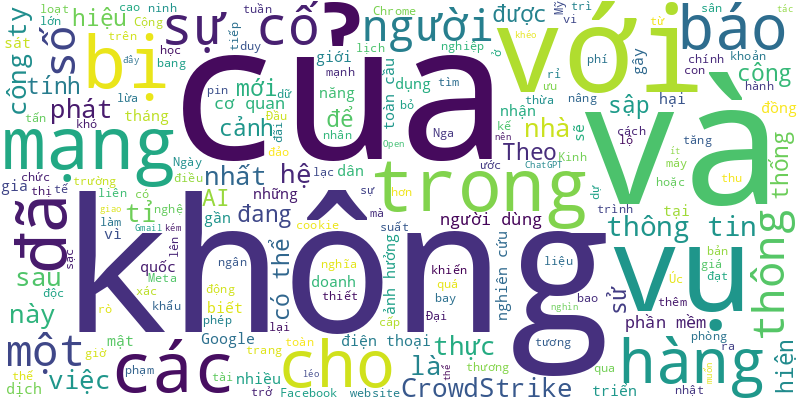
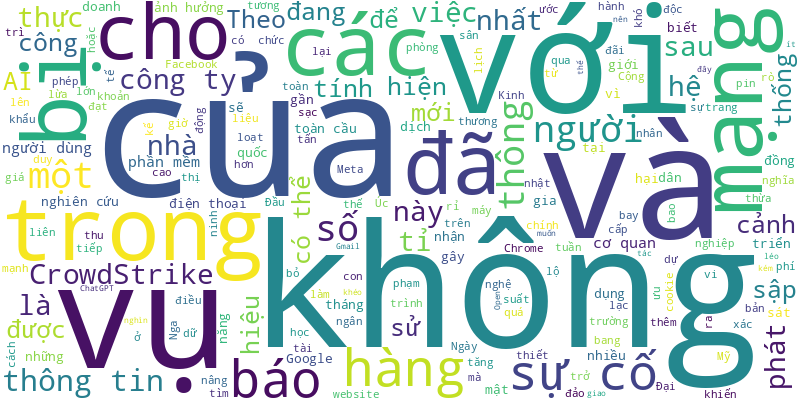
🍀 = 70%

diff --git a/README.md b/README.md
@@ -1,6 +1,12 @@
 # Tuoi Tre RSS 
 
 ## Giáo dục 
+- Bộ Chính trị vừa có kết luận tiếp tục thực hiện nghị quyết số 29-NQ/TW của Ban Chấp hành Trung ương Đảng về đổi mới căn bản, toàn diện giáo dục và đào tạo.
+- Trường đại học Ngoại ngữ Hà Nội (nay là Trường đại học Hà Nội) là trường đại học đầu tiên cấp bằng cử nhân cho ông Vương Tấn Việt (thượng tọa Thích Chân Quang).
+- Hiện nay, TP.HCM đã dạy một số môn học như toán, khoa học bằng tiếng Anh, năm học 2024-2025, TP khuyến khích các trường tiểu học tiếp tục dạy một số môn học bằng tiếng nước ngoài.
+- Đây là một trong những nội dung Bộ Giáo dục và Đào tạo đề nghị các địa phương phối hợp thực hiện vào dịp khai giảng năm học mới.
+- Sau mỗi giờ ăn tối, tiếng trống báo vang lên và loa công cộng phát đi thông tin "Đã đến giờ học tối".
+- Đến nay Trường đại học Bách khoa, Đại học Quốc gia TP.HCM vẫn chưa được cấp quyền sử dụng đất tại cơ sở Lý Thường Kiệt, quận 10, TP.HCM.
 - Tùy theo mức độ nghiêm trọng, người sử dụng bằng giả sẽ có thể bị xử phạt vi phạm hành chính hoặc truy cứu trách nhiệm hình sự.
 - Với số lượng nguyện vọng 1 tăng vọt cộng với điểm thi của thí sinh năm nay tăng, dự báo điểm chuẩn sẽ có nhiều biến động so với năm 2023.
 - Bộ Giáo dục và Đào tạo vừa có thông tin về rà soát văn bằng của ông Vương Tấn Việt và xác minh hồ sơ quá trình đào tạo tiến sĩ của ông này.
@@ -25,44 +31,38 @@
 - Trịnh Hoàng Diệu Ngân vừa giành học bổng toàn phần bậc thạc sĩ khoa học hành tinh và môi trường của Trường Sư phạm Paris thuộc Đại học Paris Sciences et Lettres (PSL).
 - GS.TS Chu Phạm Ngọc Sơn, nguyên phó chủ tịch Liên hiệp các hội khoa học và kỹ thuật TP.HCM, vừa qua đời sáng nay 11-8.
 - Hàn Quốc sẽ cho phép các trường đại học tự đặt lịch tuyển sinh sinh viên nước ngoài và người học trưởng thành, thay vì chỉ được tuyển sinh 2 lần trong một năm.
-- Kết luận thanh tra chỉ ra hàng loạt tồn tại, hạn chế về quản lý tài chính, sử dụng tài sản công ở Trường cao đẳng Bình Phước.
-- Mỗi năm, sinh viên học tập, thực tập tại doanh nghiệp 3 tháng. Sinh viên được doanh nghiệp cam kết trả lương ít nhất 10 triệu đồng/tháng.
-- Cứ vào sáng thứ ba và thứ năm, những phụ huynh có hoàn cảnh khó khăn trên địa bàn TP Thủ Đức, TP.HCM lại dẫn con đi học bơi miễn phí.
-- Chuyến đi theo 'Lớp học tử tế' tưởng cho vui ấy lại mang đến cho mình câu trả lời cho nỗi hoang mang của cuộc đời...
-- 'Không nên quá nhiều phương thức xét tuyển, càng đơn giản càng tốt, tạo thuận lợi cho thí sinh và xã hội', Bộ trưởng Nguyễn Kim Sơn nhấn mạnh.
-- Ông Nguyễn Văn Hiếu, giám đốc Sở Giáo dục và Đào tạo TP.HCM, khẳng định đến thời điểm hiện tại Trường quốc tế AISVN chưa đủ điều kiện hoạt động trở lại.
 ![Edu](Edu.png)
 ## Thời Sự 
-- Ông Nguyễn Đức Dũng, phó bí thư thường trực Tỉnh ủy Quảng Nam, được bầu làm chủ tịch HĐND tỉnh Quảng Nam.
-- Ngày 13-8, Công ty TNHH MTV Công viên cây xanh TP.HCM bắt đầu tổng kiểm tra hệ thống cây lâu năm tại các công viên công cộng và đường phố.
-- Cho rằng bản án 3 năm tù vì vi phạm quy định giao thông của mình là quá nặng nên Trần Văn Tuân nảy sinh ý định đâm trọng thương vị phó chánh án huyện đã tuyên án để trả thù.
-- Một số tin tức đáng chú ý: Doanh nghiệp vay nợ gần 8 tỉ USD qua trái phiếu; Thêm cổ phiếu 'ông lớn' điện lực vào diện cắt ký quỹ; Lao động Việt tại khu vực động đất ở Nhật Bản cần chú ý gì?...
-- Hôm nay 14-8, thời tiết ba miền có sự phân hóa rõ rệt, trong khi Bắc Bộ mưa dông thì Trung Bộ, Nam Bộ ngày nắng, có nơi nắng gay gắt.
-- Tổng Bí thư, Chủ tịch nước Tô Lâm nhấn mạnh việc kiên định lập trường, quan điểm và thực hành dân là gốc, nhân dân là chủ thể, trung tâm của công cuộc đổi mới.
-- Xe cẩu trong lúc dọn dẹp giàn khoan giếng đã vi phạm khoảng cách an toàn dẫn tới sự cố phóng điện, hơn 140.000 khách hàng mất điện đột ngột.
-- Một người đàn ông bất ngờ bơi ra giữa hồ Xuân Hương Đà Lạt rồi chìm. Lực lượng cứu hộ mất hơn 3 giờ mới tìm thấy thi thể.
-- Sau vụ ô tô cán chết hai mẹ con trên đường Mỹ Phước - Tân Vạn, cảnh sát giao thông Bình Dương tăng cường xử phạt các trường hợp ô tô lấn làn xe máy, vẫn còn nhiều trường hợp vi phạm.
-- Bảng giá đất thấp, một bộ phận người dân đóng thuế thấp nhưng toàn bộ người dân bị thu hồi đất sẽ chịu thiệt thòi.
-- Sở Giao thông vận tải TP.HCM đề nghị lực lượng chức năng xử lý nghiêm các trường hợp xe buýt hai tầng vi phạm các quy định.
-- Từ khoảng 17h chiều nay 13-8, mây dông kéo về trung tâm Hà Nội khiến trời tối sầm lại và đang mưa to ở một số quận nội thành, nhiều người đi đường phải bật đèn xe để di chuyển.
-- Ủy ban Thường vụ Quốc hội quyết định cho thôi làm nhiệm vụ đại biểu Quốc hội khóa XV đối với ông Đặng Quốc Khánh, Chẩu Văn Lâm.
-- Ngày 13-8, Tòa án nhân dân tỉnh Thừa Thiên Huế đã tiến hành xét xử vụ án mua bán thận.
-- Một người đàn ông ở Quảng Ninh mua lô hàng bong bóng cá lạc qua Zalo và bị một thanh niên lừa đảo lấy hơn 230 triệu đồng.
-- Hàng trăm công nhân Công ty Bo Hsing, huyện Long Hồ, tỉnh Vĩnh Long nhập viện với các triệu chứng nôn ói, đau bụng, tiêu chảy… nghi do ngộ độc thực phẩm.
-- Người dân TP.HCM đồng thuận đặt tên đường Đỗ Mười, Lê Khả Phiêu
-- Bộ Chính trị quyết định kỷ luật cảnh cáo Phó thủ tướng Lê Minh Khái. Ban Bí thư quyết định khai trừ khỏi Đảng 10 cán bộ.
-- Hai dự án điện gió ở Gia Lai sau khi được cấp chủ trương đầu tư, chưa hoàn thành thủ tục đất đai, đã bán cổ phần.
-- Mới đây, nhiều bạn đọc của Tuổi Trẻ Online liên tiếp phản ánh tình trạng rác thải tồn đọng nhiều nơi tại TP.HCM, gây mất mỹ quan đô thị, ảnh hưởng đến sức khỏe.
-- Một công ty ở Nghệ An mới được cấp chủ trương khai thác cát theo cơ chế đặc thù phục vụ cao tốc đã ầm ầm khai thác cát, dù thiếu rất nhiều thủ tục cần thiết.
-- Vietnam Airlines sẽ tăng chuyến để tăng gần 500.000 vé máy bay trên các chuyến bay dịp Quốc khánh 2-9, từ ngày 30-8 đến ngày 4-9-2024.
-- Chánh án Nguyễn Hòa Bình cho hay dự luật quy định cả 2 mô hình trại giam riêng hoặc phân trại riêng cho người chưa thành niên trong trại giam.
-- Liên quan vụ tai nạn liên hoàn trên cầu Phú Mỹ (TP Thủ Đức, TP.HCM), có hai công nhân quét dọn cũng bị các xe va trúng, một người văng qua con lươn, hiện đang điều trị tại bệnh viện.
-- Công ty TNHH MTV Công viên cây xanh TP.HCM kiểm tra, cắt tỉa nhiều cây xanh lâu năm ở công viên Tao Đàn, quận 1 ngày 13-8.
-- Bệnh viện Bãi Cháy (Quảng Ninh) cho biết đang tiếp nhận điều trị 4 trường hợp mắc bệnh Whitmore (còn gọi là bệnh vi khuẩn ăn thịt người), với biểu hiện lâm sàng rất đa dạng.
-- 6 tháng đầu năm 2024, khu vực biên giới tỉnh Đồng Tháp (TP Hồng Ngự, huyện Hồng Ngự, huyện Tân Hồng) đạt kim ngạch xuất nhập khẩu 304 triệu USD, tăng 97% so với cùng kỳ.
-- Bảy người rủ nhau đi xem sao băng tại Vườn quốc gia Tam Đảo (Vĩnh Phúc). Hai thanh niên về trước, khi băng qua suối bất ngờ bị lũ ống cuốn trôi.
-- Quyền chủ tịch UBND tỉnh Đồng Nai chỉ đạo các đơn vị, địa phương phải tập trung xử lý dứt điểm công tác giải phóng mặt bằng đối với 2 dự án trọng điểm quốc gia là cao tốc Biên Hòa - Vũng Tàu và vành đai 3 TP.HCM.
-- Sau phản ánh của Tuổi Trẻ Online về khu đất có hàng trăm ngôi mộ tự phát, UBND xã Vĩnh Lộc A (Bình Chánh, TP.HCM) đã cắm biển cấm chôn cất, làm nghĩa địa tại khu đất 3.000m2 có hàng trăm huyệt mộ.
+- Mặc dù đã hai lần tăng giá điện nhưng Tập đoàn Điện lực Việt Nam (EVN) vẫn ghi nhận mức lỗ lũy kế liên tục trong suốt hơn 2 năm rưỡi qua. Vì sao?
+- Viện KSND tỉnh Đồng Nai đã hoàn tất cáo trạng truy tố 15 bị can trong vụ án đưa và nhận hối lộ xảy ra tại Trung tâm đăng kiểm xe cơ giới 60-04D (phường Tân Biên, TP Biên Hòa).
+- Thông điệp của Tổng Bí thư, Chủ tịch nước Tô Lâm đưa ra thể hiện rõ quyết tâm tiếp tục đẩy mạnh phòng, chống tham nhũng, tiêu cực đạt hiệu quả tốt hơn trong bối cảnh mới.
+- UBND TP.HCM kiến nghị HĐND TP.HCM ưu tiên bố trí kế hoạch vốn trung hạn giai đoạn 2021-2025 đầu tư đường sá kết nối cảng biển.
+- Dự án mở rộng đường Dương Quảng Hàm (từ quận Bình Thạnh đến công viên văn hóa Gò Vấp) có vốn đầu tư 2.300 tỉ đồng với thiết kế 6 làn xe, rộng 32m. Hiện đoạn đầu dự án đã thành hình.
+- Cho phép hàng nhập khẩu giá trị dưới 1 triệu đồng vận chuyển qua đường chuyển phát nhanh được miễn thuế nhập khẩu và VAT gây bất bình đẳng, tạo sự cạnh tranh không lành mạnh với hàng sản xuất trong nước, hàng nhập khẩu qua các kênh khác.
+- Một số tin tức đáng chú ý: 40 công ty ở TP.HCM bị thu hồi giấy phép vận tải; Cấm xe nhiều đường ở quận 1 vào cuối tuần; Khuyến khích không tăng giá vé xe lễ 2-9...
+- Hôm nay 15-8, mưa giảm ở Bắc Bộ nhưng còn mưa to cục bộ. Thời tiết Trung Bộ nắng gay gắt, Nam Bộ nắng gián đoạn, oi bức, có lúc mưa rào.
+- Liên hiệp các Hội khoa học và kỹ thuật tỉnh Khánh Hòa vừa đề nghị đưa chợ Đầm tròn Nha Trang vào danh mục “Công trình kiến trúc có giá trị” theo quy định của Luật Kiến trúc và nghị định của Chính phủ.
+- Hôm nay Vietlott vừa trao giải Jackpot xổ số tự chọn Mega 6/45 đến anh T.D. với tổng trị giá hơn 47 tỉ đồng. Anh T.D. là chủ một doanh nghiệp ở TP.HCM, đã tặng ngay 500 triệu làm thiện nguyện.
+- Quý 2-2024, giá rao bán chung cư mới và chung cư đã qua sử dụng tăng mạnh, một số dự án tại Hà Nội tăng trên 30%, TP.HCM cao nhất khoảng 18%.
+- Trung tâm y tế Trường Sa vừa tiếp nhận và cấp cứu, điều trị cho ngư dân tỉnh Bình Định bị viêm dạ dày ruột.
+- Với tinh thần "tất cả cùng phát triển", "không ai bị bỏ lại phía sau", cần nghiên cứu, bổ sung chính sách hỗ trợ tín dụng phục vụ hoạt động sản xuất, kinh doanh đối với hộ có mức sống trung bình.
+- Đầu tư xây dựng dự án tổng thể bến cảng Liên Chiểu có quy mô vốn đầu tư từ 45.000 tỉ đồng trở lên.
+- Chiều 14-8, UBND TP Thủ Đức tổ chức hội nghị tuyên dương, trao bằng khen của UBND TP.HCM cho các cá nhân đã có hành động dũng cảm cứu người trong vụ tai nạn giao thông tại chân cầu Phú Mỹ.
+- Ban Nội chính Trung ương cho biết từ đầu nhiệm kỳ khóa XIII đến nay đã xử lý hình sự 55 cán bộ thuộc diện Trung ương quản lý.
+- Mở rộng 7km quốc lộ 91 cần chi hơn 5.500 tỉ tiền bồi thường, giải phóng mặt bằng cho 1.181 hộ dân và tổ chức ảnh hưởng.
+- Do thời tiết thuận lợi nên đơn vị thi công đã làm xong trong ngày 14-8, sớm hơn kế hoạch dự kiến 2 ngày nên lệnh cấm xe ô tô qua cầu Rạch Miễu sẽ được dỡ bỏ.
+- Ngày 14-8, đại diện Tập đoàn Mai Linh cho biết chi nhánh taxi ở tỉnh Ninh Bình vừa tổ chức khen thưởng tài xế Nguyễn Văn Huy vì đã có hành động đẹp, hoàn trả gần 50 triệu đồng của khách hàng chuyển nhầm.
+- Theo Bộ Giao thông vận tải, dự án mở rộng đường cao tốc Cam Lộ - La Sơn từ 2 lên 4 làn xe sẽ thực hiện đầu tư và cơ bản hoàn thành trong năm 2025.
+- Một ngày sau khi Tuổi Trẻ Online phản ánh vụ "Mới có chủ trương đã ào ào khai thác cát ", UBND huyện Krông Bông (Đắk Lắk) đã lập đoàn kiểm tra Công ty cổ phần 484.
+- Doanh nghiệp ở TP Cần Thơ kêu cứu vì bị nợ tiền xét nghiệm phân tích mẫu SARS-CoV- 2 từ lúc dịch COVID- 19 đến nay.
+- UBND tỉnh Phú Yên vừa phê duyệt đồ án điều chỉnh quy hoạch chung TP Tuy Hòa và khu vực phụ cận đến năm 2040.
+- Bình Định chỉ đạo xây dựng đề án phát triển TP Quy Nhơn trở thành trung tâm văn hóa phía nam của vùng Bắc Trung Bộ và duyên hải Trung Bộ.
+- Người phát ngôn Bộ Công an có thông tin về kết quả điều tra các vụ án Phúc Sơn, Thuận An, giai đoạn 2 của vụ Vạn Thịnh Phát.
+- Nhiều đoạn quốc lộ, đường vành đai tại TP.HCM sẽ được đặt tên các nhà lãnh đạo Đỗ Mười, Lê Khả Phiêu, Lê Đức Anh, Phan Văn Khải.
+- Từ đầu năm đến nay có 5 ủy viên Bộ Chính trị, 1 ủy viên Ban Bí thư và 4 ủy viên Trung ương Đảng đã thôi chức.
+- Sau vụ cá suối chết chưa rõ nguyên nhân ở thủ phủ mỏ khoáng sản Nghệ An, huyện Quỳ Hợp tiếp tục khuyến cáo người dân hạn chế dùng nước máy.
+- Một số gói thầu thuộc dự án nút giao thông An Phú được đẩy nhanh tiến độ, nhưng có những gói thầu vướng mắc về mặt bằng.
+- Tiến độ thi công cao tốc thành phần 4 đoạn Sóc Trăng thuộc dự án cao tốc Châu Đốc - Cần Thơ - Sóc Trăng bị chậm tiến độ 5% so kế hoạch.
 ![New](News.png)
 ## Nhịp sống số 
 - Theo Open AI, việc giao tiếp nhiều với ChatGPT có thể khiến người dùng trở nên kém khéo léo hoặc ít muốn tương tác với con người hơn.
